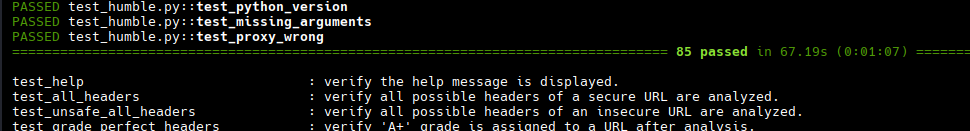
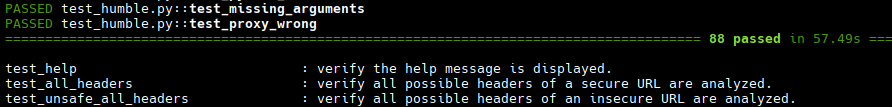
Feature: 3 new unit tests

Changed region(s): [[0.0, 0.0, 1.0, 0.4486], [0.3027, 0.5888, 0.9081, 1.0], [0.0, 0.5888, 0.2422, 1.0]]

diff --git a/tests/test_humble.py b/tests/test_humble.py
@@ -30,14 +30,17 @@
 import sys
 import shutil
 import subprocess
+import importlib.util
 from platform import system
-from datetime import datetime
 from contextlib import suppress
+from unittest.mock import patch
+from datetime import datetime, date
 from os import listdir, path, remove, fsync
 from argparse import ArgumentParser, RawDescriptionHelpFormatter
 
 # Third-Party imports
 import pytest
+from requests.exceptions import RequestException
 
 # To-Do: Enable code coverage in Windows
 WIN_COV_ERROR = (
@@ -104,9 +107,13 @@ REQUIRED_PYTHON_VERSION = (3, 11)
 
 # Definition of unit tests; for each item:
 #
-# - Key: The name of the unit test.
+# - Key: The name of the unit test:
+#
+#        Matches an entry in the files 'details.txt' and 'details_es.txt' in
+#        '../l10n/' path to print its description.
+#
 # - Value: A tuple containing the command-line arguments for the test and the
-#          expected console output.
+#          expected string output.
 TEST_CFGS = {
     'test_help': (['-h'], 'want to contribute?'),
     'test_all_headers': (['-u', TEST_URLS[2], '-if', PATHS['ALL_HEADERS']],
@@ -205,6 +212,7 @@ TEST_CFGS = {
                                   PATHS['NO_SEC_HEADERS']], 'are present'),
     'test_non_existent_output_path': (['-u', TEST_URLS[9], '-o', 'txt', '-op',
                                        HUMBLE_OUTPUT_PATHS[1]], 'Error:'),
+    'test_outdated_humble': ([], 'humble'),
     'test_owasp_compliance': (['-u', TEST_URLS[9], '-c'],
                               'non-recommended values'),
     'test_owasp_perfect_compliance': (['-u', TEST_URLS[9], '-c', '-if',
@@ -237,7 +245,9 @@ TEST_CFGS = {
     'test_unreliable_analysis': (['-u', TEST_URLS[10]], 'Not'),
     'test_unsupported_header': (['-u', TEST_URLS[9], '-s', 'testhumbleheader'],
                                 'testhumbleheader'),
+    'test_unsupported_python_version': ([], 'humble'),
     'test_updates': (['-v'], 'Keeping your security tools'),
+    'test_updates_error': (['-v'], 'error'),
     'test_url_statistics': (['-u', TEST_URLS[5], '-if', PATHS['ALL_HEADERS'],
                              '-a'], 'Empty headers'),
     'test_url_insufficient_statistics': (['-u', TEST_URLS[6], '-if',
@@ -256,6 +266,10 @@ TEST_CFGS = {
     'test_wrong_testssl': (['-u', TEST_URLS[9], '-e',
                             HUMBLE_WRONG_TESTSSL_DIR], 'not found'),
 }
+
+# Required to access and mock internal functions in 'humble.py'
+_spec = importlib.util.spec_from_file_location("humble", HUMBLE_MAIN_FILE)
+humble_module = importlib.util.module_from_spec(_spec)
 
 
 class _Args:
@@ -367,6 +381,25 @@ for key in TEST_CFGS.keys():
     globals()[key] = make_test_func(key)
 
 
+def test_outdated_humble(capsys):
+    """
+    Verify an error is displayed when the local version of humble.py
+    is more than 30 days older than the GitHub version.
+    """
+    with suppress(SystemExit):
+        _spec.loader.exec_module(humble_module)
+    humble_module.l10n_main = l10n_main
+    humble_module.args = args
+    humble_module.STYLE = ('', '', '', '', '')
+    mock_github_version = date(2026, 3, 6)
+    mock_local_version = date(2026, 1, 1)
+    mock_days_diff = (mock_github_version - mock_local_version).days
+    humble_module.check_updates_diff(mock_days_diff, mock_github_version,
+                                     mock_local_version)
+    captured = capsys.readouterr()
+    assert mock_github_version.isoformat() in captured.out
+
+
 def test_python_version():
     """
     Returns an error message if the current Python version does not meet the
@@ -377,6 +410,39 @@ def test_python_version():
             f"{get_detail('[test_pythonm]', replace=True)} "
             f"{sys.version_info.major}.{sys.version_info.minor}"
         )
+
+
+def test_unsupported_python_version(capsys):
+    """
+    Verify an error is displayed if using a python version below the minimum
+    supported.
+    """
+    with suppress(SystemExit):
+        _spec.loader.exec_module(humble_module)
+    humble_module.l10n_main = l10n_main
+    humble_module.args = args
+    with patch('sys.version_info', (3, 10, 0)):
+        with pytest.raises(SystemExit) as wrapped_exit:
+            humble_module.check_python_version()
+        assert wrapped_exit.value.code == 1
+    captured = capsys.readouterr()
+    assert "humble" in captured.out.lower()
+
+
+def test_updates_error(capsys):
+    """
+    Verify an error message is displayed if the GitHub update check fails.
+    """
+    with suppress(SystemExit):
+        _spec.loader.exec_module(humble_module)
+    humble_module.l10n_main = l10n_main
+    humble_module.args = args
+    with patch('requests.get', side_effect=RequestException):
+        with pytest.raises(SystemExit) as wrapped_exit:
+            humble_module.check_updates(date(2026, 1, 1))
+        assert wrapped_exit.value.code == 1
+    captured = capsys.readouterr()
+    assert "error" in captured.out.lower()
 
 
 def test_missing_arguments():
@@ -500,7 +566,7 @@ def cleanup_analysis_history():
             fsync(original_file.fileno())
 
 
-local_version = datetime.strptime('2026-03-06', '%Y-%m-%d').date()
+local_version = datetime.strptime('2026-03-07', '%Y-%m-%d').date()
 parser = ArgumentParser(
     formatter_class=lambda prog: RawDescriptionHelpFormatter(
         prog, max_help_position=34

diff --git a/humble.py b/humble.py
@@ -178,7 +178,7 @@ XFRAME_CHECK = 'X-Frame-Options ('
 XML_STRING = ('Ref: ', 'Value: ', 'Valor: ')
 
 current_time = datetime.now().strftime("%Y/%m/%d - %H:%M:%S")
-local_version = datetime.strptime('2026-03-06', '%Y-%m-%d').date()
+local_version = datetime.strptime('2026-03-07', '%Y-%m-%d').date()
 
 BANNER_VERSION = f'{URL_LIST[4]} | v.{local_version}'
 
@@ -1373,19 +1373,20 @@ def delete_lines(reliable=True):
 
 def print_export_path(filename, reliable, export_all=False):
     """
-    Prints the export path for the `-o` option. If `export_all` is `False`, it
-    prints the full file path; otherwise, it prints the directory
-    containing all generated analysis reports.
+    Prints the export path for the `-o` option. It displays the file path
+    for single reports or the directory for bulk exports.
     """
     delete_lines(reliable=False) if reliable else delete_lines()
-    if '-c' not in sys.argv:
-        if export_all is False:
-            print(f"\n {args.output.upper()} "
-                  f"{print_detail_s('[report]').lstrip()}"
-                  f"'{path.abspath(filename)}'.")
-        else:
-            print(f"\n {print_detail_s('[all_reports]').lstrip()}"
-                  f" '{path.dirname(path.abspath(filename))}'.")
+    if '-c' in sys.argv:
+        return
+    abs_path = path.abspath(filename)
+    if export_all:
+        msg = f"{print_detail_s('[all_reports]').lstrip()} \
+'{path.dirname(abs_path)}'."
+    else:
+        msg = f"{args.output.upper()} {print_detail_s('[report]').lstrip()} \
+'{abs_path}'."
+    print(f"\n {msg}")
 
 
 def print_nowarnings():
@@ -1992,7 +1993,6 @@ def check_export_scope():
         check_output_format(args, final_filename, reliable, tmp_filename)
     else:
         export_all_formats(final_filename, tmp_filename)
-        sys.exit(0)
 
 
 def export_all_formats(final_filename, tmp_filename):

diff --git a/README.md b/README.md
@@ -6,7 +6,7 @@
 <a target="_blank" href="https://devguide.python.org/versions/" title="Minimum Python version required to run this tool"><img src="https://img.shields.io/badge/Python-%3E%3D3.11-blue?labelColor=343b41"></a>
 <a target="_blank" href="LICENSE" title="License of this tool"><img src="https://img.shields.io/badge/License-MIT-blue.svg?labelColor=343b41"></a>
 <a target="_blank" href="https://github.com/rfc-st/humble/releases" title="Latest release of this tool"><img src="https://img.shields.io/github/v/release/rfc-st/humble?display_name=release&label=Latest%20Release&labelColor=343b41"></a>
-<a target="_blank" href="https://github.com/rfc-st/humble/commits/master" title="Latest commit of this tool"><img src="https://img.shields.io/badge/Latest_Commit-2026--03--06-blue.svg?labelColor=343b41"></a>
+<a target="_blank" href="https://github.com/rfc-st/humble/commits/master" title="Latest commit of this tool"><img src="https://img.shields.io/badge/Latest_Commit-2026--03--07-blue.svg?labelColor=343b41"></a>
 <a target="_blank" href="https://pkg.kali.org/pkg/humble" title="Official tool in Kali Linux"><img src="https://img.shields.io/badge/Kali%20Linux-Tool-blue?labelColor=343b41"></a>
 <br />
 <a target="_blank" href="#" title="Featured on:"><img src="https://img.shields.io/badge/Featured%20on:-343b41"></a>

diff --git a/docs/index.md b/docs/index.md
@@ -78,6 +78,6 @@ And a special greeting to Alba, Aleix, Alejandro (x3), Álvaro, Ana, Carlos (x3)
 <aside class="md-source-file">
 <span class="md-source-file__fact">
 Last updated on
-<span class="git-revision-date-localized-plugin git-revision-date-localized-plugin-datetime"><em>March 06, 2026</em></span>
+<span class="git-revision-date-localized-plugin git-revision-date-localized-plugin-datetime"><em>March 07, 2026</em></span>
 </span>
 </aside>

diff --git a/docs/unit_tests.md b/docs/unit_tests.md
@@ -24,6 +24,6 @@ Functions and unit tests of **test_humble.py**, in alphabetical order (work in p
 <aside class="md-source-file">
 <span class="md-source-file__fact">
 Last updated on
-<span class="git-revision-date-localized-plugin git-revision-date-localized-plugin-datetime"><em>March 06, 2026</em></span>
+<span class="git-revision-date-localized-plugin git-revision-date-localized-plugin-datetime"><em>March 07, 2026</em></span>
 </span>
 </aside>

diff --git a/docs/references.md b/docs/references.md
@@ -7,6 +7,6 @@ Classes and functions of **humble.py**, in alphabetical order (work in progress)
 <aside class="md-source-file">
 <span class="md-source-file__fact">
 Last updated on
-<span class="git-revision-date-localized-plugin git-revision-date-localized-plugin-datetime"><em>March 06, 2026</em></span>
+<span class="git-revision-date-localized-plugin git-revision-date-localized-plugin-datetime"><em>March 07, 2026</em></span>
 </span>
 </aside>
